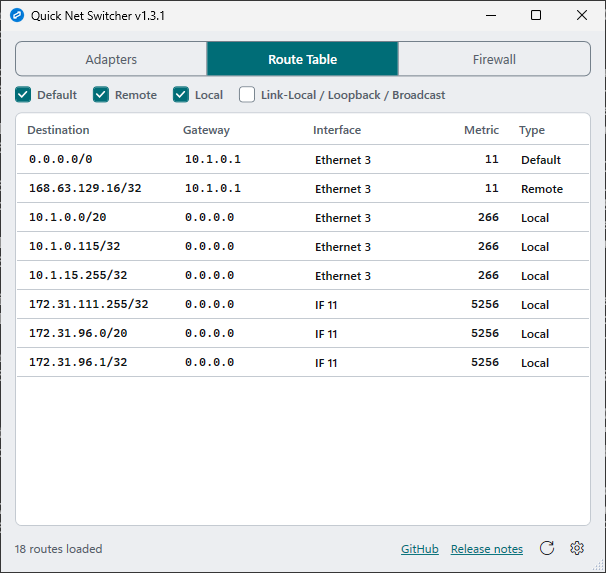
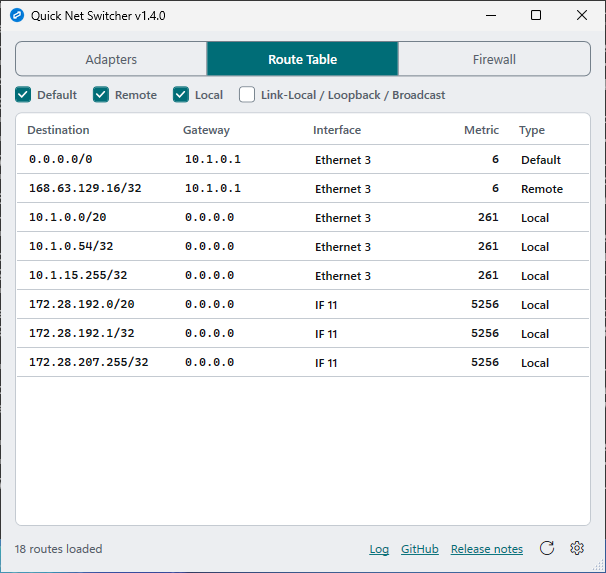
docs: retake the README screenshots for v1.4.0 and add the firewall log and activity log
Captured by the Screenshots workflow (run 39462396511) from the v1.4.0
build, with firewall logging on so the hits panel and viewer show real
lines. Also corrects the README's description of when the window fits
its content.

Claude-Session: https://claude.ai/code/session_01LzC7vHMZtTGE12e4hMAtcc

diff --git a/README.md b/README.md
@@ -50,13 +50,15 @@ A small Windows utility for switching network adapters and firewall profiles on 
 ## Screenshots
 
 Captured from a real build on a GitHub Windows runner by the repository's
-Screenshots workflow, so the adapters, addresses and routes shown are that
-runner's.
+Screenshots workflow, so the adapters, addresses, routes and firewall hits
+shown are that runner's.
 
 <img src="docs/screenshots/adapters.png" width="606" alt="Adapters tab: two adapters, each on one line with its status, address and switch" />
-<img src="docs/screenshots/adapters-details.png" width="606" alt="Adapters tab with Show all details ticked: gateway, metric, speed, MAC address, DNS suffix and device name under each adapter" />
+<img src="docs/screenshots/adapters-details.png" width="606" alt="Adapters tab with Show all details ticked: gateway, metric, Register in DNS with Register now, speed, MAC address, DNS suffix and device name under each adapter" />
 <img src="docs/screenshots/route-table.png" width="606" alt="Route Table tab: destination, gateway, interface, metric and type, with filters by route type" />
-<img src="docs/screenshots/firewall.png" width="606" alt="Firewall tab: Domain, Private and Public profiles, each with a switch" />
+<img src="docs/screenshots/firewall.png" width="606" alt="Firewall tab: Domain, Private and Public profiles with their logging boxes, the network each is in use on and its hits, and the top sources panel below" />
+<img src="docs/screenshots/firewall-log.png" width="606" alt="Firewall log viewer: newest lines first with time, action, protocol, source and destination with names, interface and profile, and filters in the column headers" />
+<img src="docs/screenshots/activity-log.png" width="606" alt="Adapters tab with details open and the activity log below, showing a Register now run and its DNS checks" />
 <img src="docs/screenshots/adapters-dark.png" width="606" alt="Adapters tab in the dark theme" />
 
 ## Download
@@ -284,7 +286,7 @@ The output will be a single `QuickNetSwitcher.exe` in the `publish/` folder.
 - **DNS registration:** The checkbox reads `FullDNSRegistrationEnabled` from `Win32_NetworkAdapterConfiguration` and writes it with `SetDynamicDNSRegistration`. "Register now" runs `ipconfig /registerdns`, then queries `HOST.<primary suffix>` (or the connection's suffix) with `DnsQuery` using the network only, bypassing the cache and hosts file, every 3 seconds for up to 30 seconds, checks the reverse record, and reads DNS Client warnings from the System log with `wevtutil`.
 - **Closing:** Background work — the DNS check and the log viewer — is tied to one cancellation token and timer that closing the window or exiting from the tray stops. The log file is open only for the moment of each read, and helpers have time limits, so nothing can hold the app open.
 - **Pin to desktop:** Uses Win32 interop to parent the window to the desktop's WorkerW layer, placing it behind all other windows.
-- **Simple view:** A flag on each `AdapterViewModel` hides the row's detail line, leaving the name, the status in words, the address and the switch. It is on by default; "Show all details" turns it off. Clicking a row sets a second flag, `IsExpanded`, that opens just that row; the window remembers which rows are open by adapter id, because a full reload rebuilds the view models. In simple view the window switches to `SizeToContent="Height"` so it fits the list instead of holding its full height; this applies only on the Adapters tab, since the route table would measure to every row it holds.
+- **Simple view:** A flag on each `AdapterViewModel` hides the row's detail line, leaving the name, the status in words, the address and the switch. It is on by default; "Show all details" turns it off. Clicking a row sets a second flag, `IsExpanded`, that opens just that row; the window remembers which rows are open by adapter id, because a full reload rebuilds the view models. On the Adapters tab, in either view, and on the Firewall tab's profiles the window uses `SizeToContent="Height"`, so it fits what it shows and refits when details or the activity log open or close; a window that grows moves up to stay above the taskbar. The route table and the firewall log viewer would measure to every row they hold, so they use the height the user last gave them instead.
 - **Hide disconnected:** A filter on the adapter list's `ICollectionView`, so hidden adapters stay in the underlying collection and the saved display order keeps its full set. A filter is not re-evaluated when an item's own properties change, so the view is refreshed explicitly after a status update — otherwise an adapter that had just dropped its link would sit there until the list was rebuilt. Disabled adapters are never filtered out — switching one back on is what the app is for, and hiding it would put the row you just toggled off out of reach. The count of what the filter removed is shown on the checkbox itself, since the status line carrying it is overwritten by the next action.
 - **Reorder ghost:** Dragging a row's handle adds a `DragGhostAdorner` to the list's adorner layer, painting a translucent `VisualBrush` copy of the whole row that tracks the pointer, plus a 2px bar on the edge the row will take up. WPF supplies no drag visual of its own beyond the cursor.
 - **Theming:** Two `ResourceDictionary` palettes (`Themes/Light.xaml`, `Themes/Dark.xaml`) define the same key set, and `ThemeService` swaps one for the other in slot 0 of the application's merged dictionaries. Every colour is referenced with `DynamicResource`, so the swap propagates without rebuilding any window. The default comes from `AppsUseLightTheme` under `HKCU\...\Themes\Personalize`; clicking the toggle stores an explicit choice that stops following Windows. The title bar is darkened separately through `DwmSetWindowAttribute`, since the caption is drawn by the OS rather than WPF, and the tray menu and tray icon are coloured by hand from the same brushes because Windows Forms sits outside WPF's resource system.
